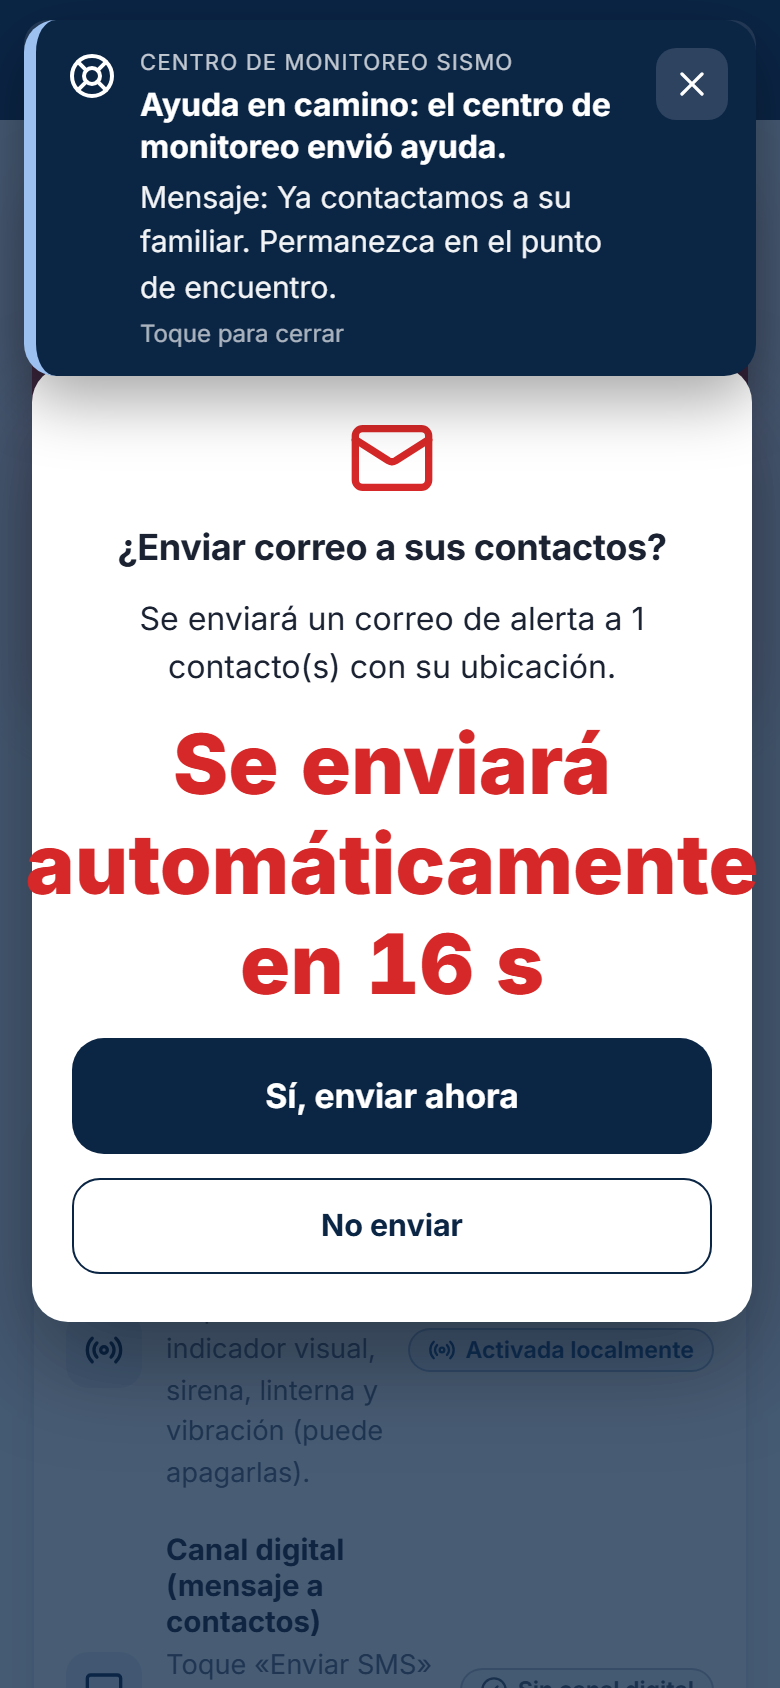
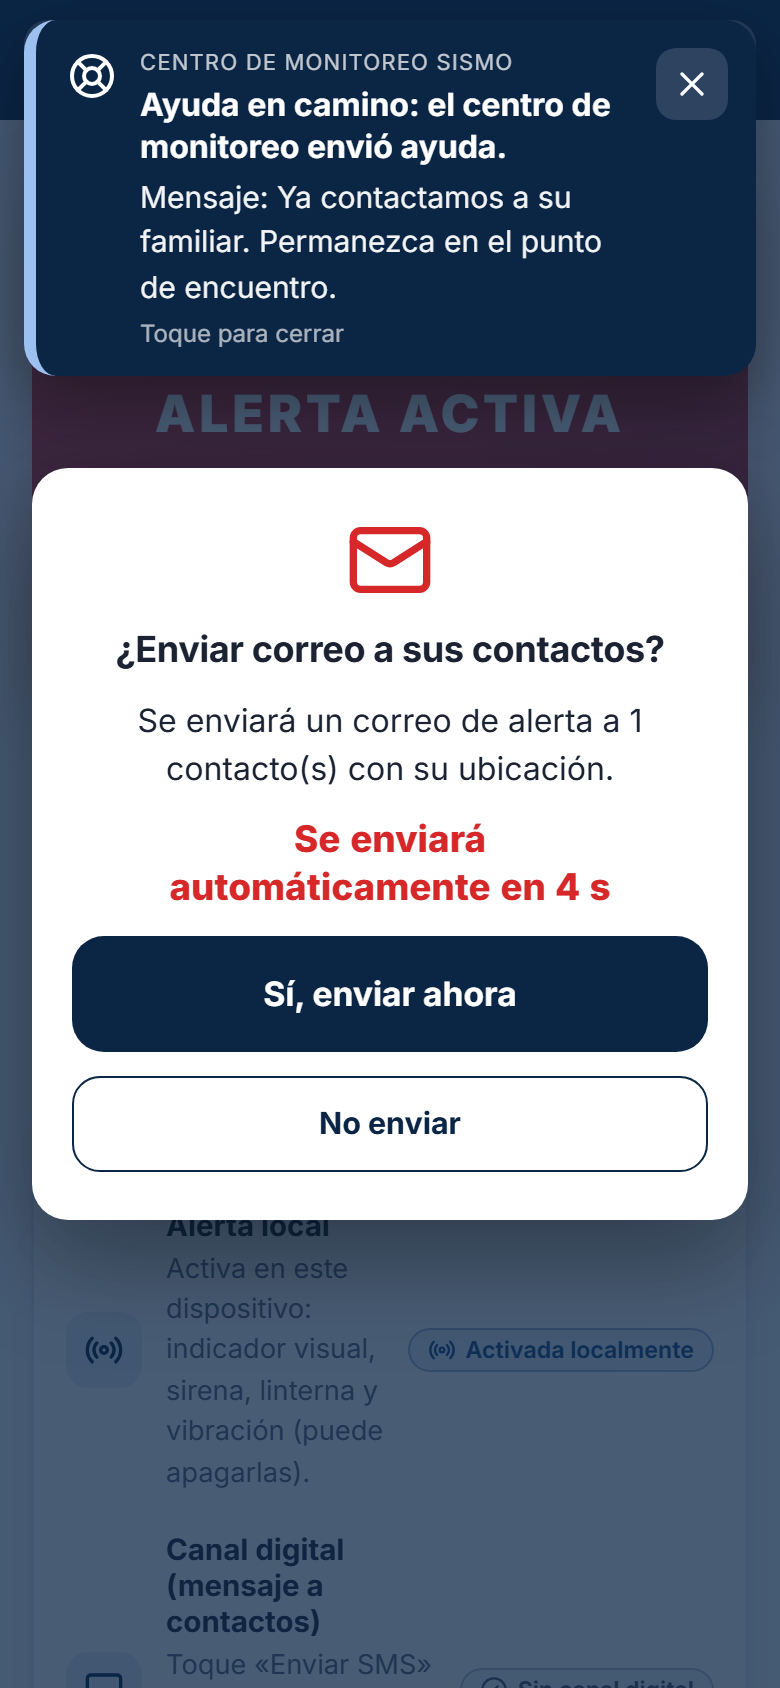
Cuenta regresiva del correo legible, evidencias del QR médico y de la página informativa
- Diálogo del correo: «Se enviará automáticamente en N s» con tamaño de frase y sin partir el número de la «s» (antes se salía del diálogo).
- Evidencias nuevas: aviso del centro de monitoreo, ficha médica con QR, lo que ve quien escanea el QR, guía y sismos recientes (USGS).
- Avances: §2.22 página web informativa pública, capturas de escritorio y celular, y tablas de evidencias actualizadas.

Changed region(s): [[0.0308, 0.2156, 0.9846, 0.8009]]

diff --git a/src/i18n/ns/alert.ts b/src/i18n/ns/alert.ts
@@ -71,7 +71,7 @@ const es = {
   email: {
     dialogTitle: "¿Enviar correo a sus contactos?",
     dialogText: (n: number) => `Se enviará un correo de alerta a ${n} contacto(s) con su ubicación.`,
-    countdown: (s: number) => `Se enviará automáticamente en ${s} s`,
+    countdown: (s: number) => `Se enviará automáticamente en ${s}\u00a0s`,
     yes: "Sí, enviar ahora",
     no: "No enviar",
     channel: "Correo a contactos",
@@ -238,7 +238,7 @@ const en: typeof es = {
   email: {
     dialogTitle: "Email your contacts?",
     dialogText: (n: number) => `An alert email with your location will be sent to ${n} contact(s).`,
-    countdown: (s: number) => `It will be sent automatically in ${s} s`,
+    countdown: (s: number) => `It will be sent automatically in ${s}\u00a0s`,
     yes: "Yes, send now",
     no: "Don’t send",
     channel: "Email to contacts",

diff --git a/src/components/AlertEmailCard.tsx b/src/components/AlertEmailCard.tsx
@@ -105,7 +105,7 @@ export function AlertEmailCard({ alert }: { alert: AlertRecord }) {
             <Mail size={44} aria-hidden="true" />
             <h2 id="email-title">{t.dialogTitle}</h2>
             <p id="email-desc">{t.dialogText(recipients.length)}</p>
-            <strong className="fall-count" aria-live="polite">{t.countdown(remaining)}</strong>
+            <strong className="fall-count fall-count--text" aria-live="polite">{t.countdown(remaining)}</strong>
             <button className="btn btn--primary btn--lg btn--block" onClick={() => void send()}>{t.yes}</button>
             <button className="btn btn--outline btn--block" onClick={cancel}>{t.no}</button>
           </div>

diff --git a/tests/idioma-y-extras.e2e.spec.ts b/tests/idioma-y-extras.e2e.spec.ts
@@ -214,7 +214,7 @@ test('correo: al activar pregunta y «No enviar» lo cancela', async ({ page }) 
   await activateAlert(page);
   const dialog = page.getByRole('alertdialog', { name: '¿Enviar correo a sus contactos?' });
   await expect(dialog).toBeVisible();
-  await expect(dialog).toContainText(/Se enviará automáticamente en \d+ s/);
+  await expect(dialog).toContainText(/Se enviará automáticamente en \d+\ss/);
   await dialog.getByRole('button', { name: 'No enviar' }).click();
   await expect(view(page).getByText('Usted eligió no enviar el correo.')).toBeVisible();
   await expect.poll(async () => (await readStorage(page)).alerts[0].emailStatus).toBe('cancelado');

diff --git a/src/styles/global.css b/src/styles/global.css
@@ -430,6 +430,8 @@ ion-alert.sismo-alert .alert-radio-label { color: var(--text); }
 }
 .fall-dialog svg { color: var(--red); }
 .fall-count { font-size: 2.6rem; font-weight: 850; color: var(--red); font-variant-numeric: tabular-nums; }
+/* Cuenta regresiva del correo: es una frase, no un número; más pequeña para que no se salga del diálogo. */
+.fall-count--text { font-size: 1.15rem; font-weight: 800; line-height: 1.3; text-wrap: balance; }
 
 /* ---------- Encuesta SUS ---------- */
 .sus-item { border: 1px solid var(--border); margin: 0; display: flex; flex-direction: column; gap: 10px; }

diff --git a/docs/AVANCES_Y_HOJA_DE_RUTA_2026-11-04.md b/docs/AVANCES_Y_HOJA_DE_RUTA_2026-11-04.md
@@ -31,6 +31,7 @@ Repositorio: <https://github.com/Davidhunter13/Sismo_front>
 | Validación | Sin datos | Métricas de tiempo, simulacro con cronómetro, encuesta SUS, estadísticas y CSV |
 | Almacenamiento | Solo en el teléfono | Teléfono + base de datos MySQL vía backend en CodeIgniter 3; sin red los cambios esperan en una cola y se suben solos al volver la conexión |
 | Monitoreo | No existía | Panel administrativo web (backend) con alertas activas en tiempo real, mapa, detalle de la persona y registro de la ayuda brindada, visible en la app |
+| Divulgación | No existía | Página web informativa (comercial) con beneficios, funciones, capturas en teléfonos, portátil y escritorio, y lo que aún está pendiente |
 | Recuperación | Si se perdía el teléfono se perdía todo | Código de recuperación: en un teléfono nuevo se restauran contactos, historial, ficha médica y demás datos |
 | Contenido | Listas y textos fijos en el código | Tipos de evento, parentescos, kit, pasos post-sismo, tipos de sangre, guía de emergencia y parámetros (número de emergencia, topes, tiempos) editables desde el panel |
 | Modo demostración | Visible siempre | Solo en desarrollo; en producción no aparece y se apaga solo |
@@ -143,6 +144,7 @@ Repositorio: <https://github.com/Davidhunter13/Sismo_front>
 | WhatsApp decía que el contacto no existía | WhatsApp exige el número con código de país y sin «+» | Botón de WhatsApp por contacto en la alerta con el número normalizado (`whatsappNumber`: se quita el «+» y se antepone 57 a celulares colombianos guardados sin indicativo) |
 | La detección de caídas se activó al apretar el teléfono con fuerza | El umbral de impacto aislado (4 g) se alcanza con un apretón o sacudida | Impacto aislado sube a 6 g; caída libre + impacto se mantiene. Prueba de falsas alarmas |
 | La cuenta regresiva del correo se quedaba en 20 s y nunca enviaba (detectado por las pruebas) | La pantalla de alerta se redibuja cada segundo y reiniciaba el temporizador | El temporizador ya no depende de los redibujos (referencia a la función de envío) |
+| El texto «Se enviará automáticamente en N s» se salía del diálogo del correo en teléfonos angostos | Usaba el tamaño de letra de un número grande (2,6 rem) para una frase completa | Tamaño de frase (1,15 rem), líneas equilibradas y espacio que no se parte entre el número y la «s» |
 | El mapa real podía verse gris | El mapa se dibujaba antes de tener su tamaño final (pestañas, transiciones) o las teselas no cargaban (sin internet o un bloqueador) | El mapa se recalcula cada vez que cambia su contenedor y, si las teselas fallan, muestra un aviso en lugar de quedar gris |
 | «Elegir en el mapa» no llevaba al mapa | — | Sube automáticamente hasta el mapa |
 | La búsqueda de dirección no encontraba «Carrera 20 # 39-52» (Consejo Colombiano de Seguridad) | OpenStreetMap casi no tiene números de casa en Colombia | Esri ArcGIS como fuente principal (punto exacto), Photon de respaldo, limpieza del texto (paréntesis, «Barrio», «D.C.») |
@@ -165,7 +167,7 @@ Repositorio: <https://github.com/Davidhunter13/Sismo_front>
 
 - **Brújula al punto de encuentro** (en Ubicación y en la alerta): flecha que apunta al punto de encuentro, distancia en metros y dirección en grados con punto cardinal. **Funciona sin internet**: usa el GPS en vivo y el magnetómetro (`deviceorientationabsolute` en Android/Chrome, `webkitCompassHeading` en iOS). Sin magnetómetro dibuja la dirección respecto al norte. Indica «ya llegó» a menos de 25 m. Archivos: `compassService.ts`, `components/MeetingCompass.tsx`.
 - **Lista «Después del sismo»** (`/despues-del-sismo`, acceso en Inicio y en la alerta; se abre sola al finalizar la alerta): 11 pasos (heridos, gas, electricidad, agua, grietas, escaleras, punto de encuentro, réplicas, uso del teléfono, información oficial, avisar a la familia) con casillas y barra de progreso. **Cada alerta tiene su propia lista** (`AlertRecord.postQuakeDone`): al dar SOS empieza vacía y las anteriores se conservan con su alerta, sin borrar datos (preparado para migrar a una base de datos). Desde Inicio se abre la de la alerta más reciente; sin alertas, una lista de práctica. Arriba muestra el **punto de encuentro con la brújula** o, si no hay uno configurado, invita a configurarlo (botón que lleva a la brújula en Ubicación). Orientativa: debe validarse con la UNGRD.
-- **QR médico:** en la ficha médica y en la pantalla de alerta. Contiene la ficha en texto plano (nombre, sangre, alergias, medicamentos, condiciones, notas, línea 123): cualquier lector de QR lo muestra **sin internet ni app**. Solo se genera si «Compartir» está activo. Siempre sobre fondo blanco para que lo lean los escáneres. Librería `qrcode`.
+- **QR médico:** en la ficha médica y en la pantalla de alerta. Contiene la ficha en texto plano (nombre, sangre, alergias, medicamentos, condiciones, notas, línea 123): cualquier lector de QR lo muestra **sin internet ni app**. Solo se genera si «Compartir» está activo. Siempre sobre fondo blanco para que lo lean los escáneres. Librería `qrcode`. **Evidencia:** `screenshots/2026-11-04/visual/visual_front/14-ficha-medica-qr.png` (el QR en la ficha) y `15-qr-escaneado-por-un-rescatista.png` (lo que ve quien lo escanea: el texto se obtuvo decodificando el QR real generado por la app; la pantalla del lector es una simulación genérica).
 - **Ficha médica sobre la pantalla de bloqueo (Android):** durante la alerta SISMO se muestra encima de la pantalla bloqueada y la enciende (`setShowWhenLocked` / `setTurnScreenOn`), para que los rescatistas vean la ficha y el QR sin desbloquear. Se desactiva al finalizar.
 - **Indicador de red:** aviso «Sin internet» en Inicio y en la alerta (qué sigue funcionando: SMS, 123, brújula, esquema; qué no: mapa real y sismos recientes) y fila «Conexión a internet» en la disponibilidad de servicios.
 - **Recordatorios de simulacro:** en Inicio y en Simulacro, si nunca se ha hecho uno o pasaron 90 días; en septiembre y octubre recuerda el **Simulacro Nacional de Respuesta a Emergencias** (la fecha exacta se remite a la UNGRD). Dentro de la app. Archivo: `drillReminderService.ts`.
@@ -306,6 +308,17 @@ Pestaña **Sismos recientes** con las **últimas 24 horas** y los **últimos 7 d
 - **En el backend** (`POST /eliminar_cuenta`, en una sola transacción): borrado lógico en cascada (`activo = 0`, convención CCS) de ajustes, contactos, alertas, puntos de encuentro, encuestas, kit, ficha médica y bitácora de ayuda. Además hay **supresión de datos personales y de salud** (Ley 1581): se vacían el nombre, los contactos, la ficha médica cifrada, las ubicaciones, los puntos de encuentro, las notas y los mensajes de ayuda. Solo quedan métricas anónimas (tiempos de reacción y confirmación, SUS) para la tesis. La persona desaparece del panel.
 - **Sin conexión** no se borra nada (para no dejar datos huérfanos en el servidor) y la app avisa que debe intentarlo con internet.
 - **Verificado de punta a punta:** registro, contacto y código de recuperación; luego eliminar → `ok` y el token anterior queda inválido. Pruebas unitarias: aviso al servidor, borrado del token y la cola, y comportamiento sin red.
+
+### 2.22 Página web informativa (comercial) desde el backend
+
+Se creó una **página web informativa para presentar y «vender» SISMO**, servida por el backend en CodeIgniter 3 en `Sismo_info`. **Es pública: no exige iniciar sesión** (controlador propio, separado del panel, que sigue protegido). Desde el panel se abre con el botón «Qué ofrece SISMO»; solo si quien la ve es administrador aparece además «Ir al panel». Es una página propia, sin menús ni encabezados de otros sistemas, con la identidad visual de la app (paleta, logo, Inter) y tema claro u oscuro con botón de sol y luna (comparte la preferencia con el panel).
+
+- **Contenido:** portada con llamado a la acción y capturas de la app dentro de teléfonos; cifras del producto (1 toque, sin red, ubicación cada 2 min, en vivo); **«Lo que aún está pendiente»** en una franja propia (hoy el SMS y el WhatsApp los confirma la persona; pendiente el correo automático a los contactos al activar el SOS y el envío de la ubicación actualizada por correo); beneficios para la organización; funciones con capturas (alerta, centro de monitoreo, orientación, información con la ficha médica, su QR y lo que ve quien lo escanea, guía y sismos recientes, supervivencia); **el panel de monitoreo en un monitor de escritorio y en un portátil**; **«Todo es administrable»** con pestañas Catálogos / Guía / Parámetros (lo editado en el panel llega a la app sin publicar una nueva versión); carrusel automático de pantallas; comparación con y sin SISMO; cómo funciona en 4 pasos; seguridad y privacidad; cierre.
+- **Botón «Solicitar una demostración»:** se activa con `sismo_contacto_url` en `config/sismo.php` (solo URL `https://`); vacío = no se muestra.
+- **Movimiento:** aparición al hacer scroll, dispositivos que flotan, pares de teléfonos inclinados en 3D, abanico de cuatro teléfonos y fondo de partículas conectadas (solo se anima la sección visible). Todo se desactiva si el sistema pide reducir el movimiento. Carrusel que avanza solo cada 3,5 s y se pausa con el mouse o el foco.
+- **Contenido honesto:** solo funciones que existen; las capturas usan datos ficticios (los sismos son datos reales del USGS). Contenido estático: no consulta datos de personas.
+- **Imágenes:** capturas de la app y del panel convertidas a WebP (`assets/sismo/landing/`, ~1 MB en total), con carga diferida.
+- **Adaptable:** escritorio y celular sin scroll horizontal (verificado a 1440 px y 390 px).
 
 ## 3. Decisiones de diseño
 
@@ -537,7 +550,7 @@ Capturas con **datos ficticios** (nombres «Demo», teléfonos de prueba y corre
 | `02-bienvenida-sin-conexion.png` | Bienvenida sin internet: «Sus datos se guardan en el teléfono y se subirán apenas haya conexión» (§2.20) |
 | `03-registro-sin-conexion.png` | Registro sin internet con el mismo aviso (§2.20) |
 | `04-inicio-sin-conexion-cambios-pendientes.png` | Inicio sin internet con el número de cambios pendientes de subir (§2.14) |
-| `05-alerta-ayuda-del-centro-de-monitoreo.png` | Alerta activa con el aviso fijo del centro de monitoreo («Ayuda en camino» y el mensaje del operador) (§2.15) |
+| `05-alerta-ayuda-del-centro-de-monitoreo.png` | Alerta activa con el aviso fijo del centro de monitoreo («Ayuda en camino» y el mensaje del operador) sobre la pregunta del correo, con la cuenta regresiva ya ajustada para que no se salga del diálogo (§2.15, §2.10) |
 | `06-configuracion-respaldo-y-recuperacion.png` | Configuración → Respaldo y recuperación: crear código y recuperar datos (§2.16) |
 | `07-loader-de-solicitud.png` | Loader de pantalla completa mientras se crea el código de recuperación (§2.20) |
 | `08-codigo-de-recuperacion.png` | Código de recuperación generado, para guardarlo fuera del teléfono (§2.16) |
@@ -545,6 +558,11 @@ Capturas con **datos ficticios** (nombres «Demo», teléfonos de prueba y corre
 | `10-confirmar-eliminar-cuenta.png` | Confirmación antes de eliminar la cuenta (§2.21) |
 | `11-guia-desde-catalogo.png` | Guía de emergencia leída del catálogo administrable (§2.17) |
 | `12-despues-del-sismo-por-clave.png` | «Después del sismo» con pasos del catálogo y avance guardado por clave de paso (§2.17) |
+| `13-alerta-aviso-del-centro.png` | Alerta activa solo con el aviso fijo del centro de monitoreo (correo descartado): «Ayuda en camino», el mensaje del operador y el recuadro de estado (§2.15) |
+| `14-ficha-medica-qr.png` | Ficha médica con datos ficticios y su QR médico para rescatistas (§2.11) |
+| `15-qr-escaneado-por-un-rescatista.png` | Lo que ve un rescatista al escanear el QR con cualquier lector del teléfono: la ficha en texto, sin internet ni SISMO. El texto es el real decodificado del QR; la pantalla del lector es una simulación genérica (§2.11) |
+| `16-guia-de-emergencia.png` | Guía de emergencia («Durante») con lectura en voz alta, sin modo de demostración (§2.5, §2.17) |
+| `17-sismos-recientes.png` | Sismos recientes de los últimos 7 días en Colombia con datos reales del USGS (§2.5) |
 
 **`visual/visual_back/`** (panel administrativo, 1440×900, tema oscuro):
 
@@ -560,6 +578,8 @@ Capturas con **datos ficticios** (nombres «Demo», teléfonos de prueba y corre
 | `08-panel-editar-tarjeta-de-la-guia.png` | Edición de una tarjeta de la guía (título y pasos en español e inglés, ícono, orden) (§2.17) |
 | `09-panel-parametros.png` | Parámetros: número de emergencia, topes, tiempos y textos de la guía (§2.17) |
 | `10-panel-loader.png` | Loader del panel durante una consulta iniciada por el operador (§2.15) |
+| `11-pagina-informativa-escritorio.png` | Página web informativa completa en escritorio (1440 px, tema claro): portada, pendientes, beneficios, funciones, panel en escritorio y portátil, todo administrable, carrusel, comparación, pasos y seguridad (§2.22) |
+| `12-pagina-informativa-celular.png` | Portada de la página informativa en celular (390 px, tema oscuro) (§2.22) |
 
 **`codigo/codigo_front/`** (código real del repositorio de la app):
 
